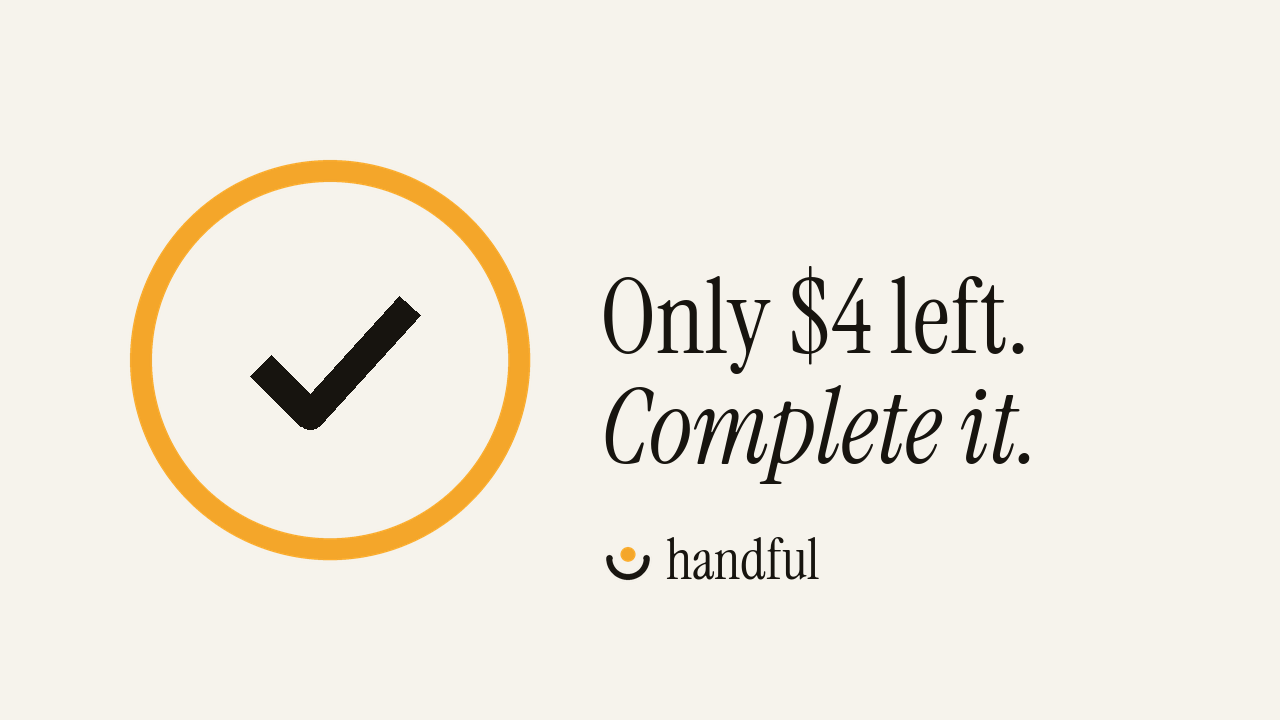
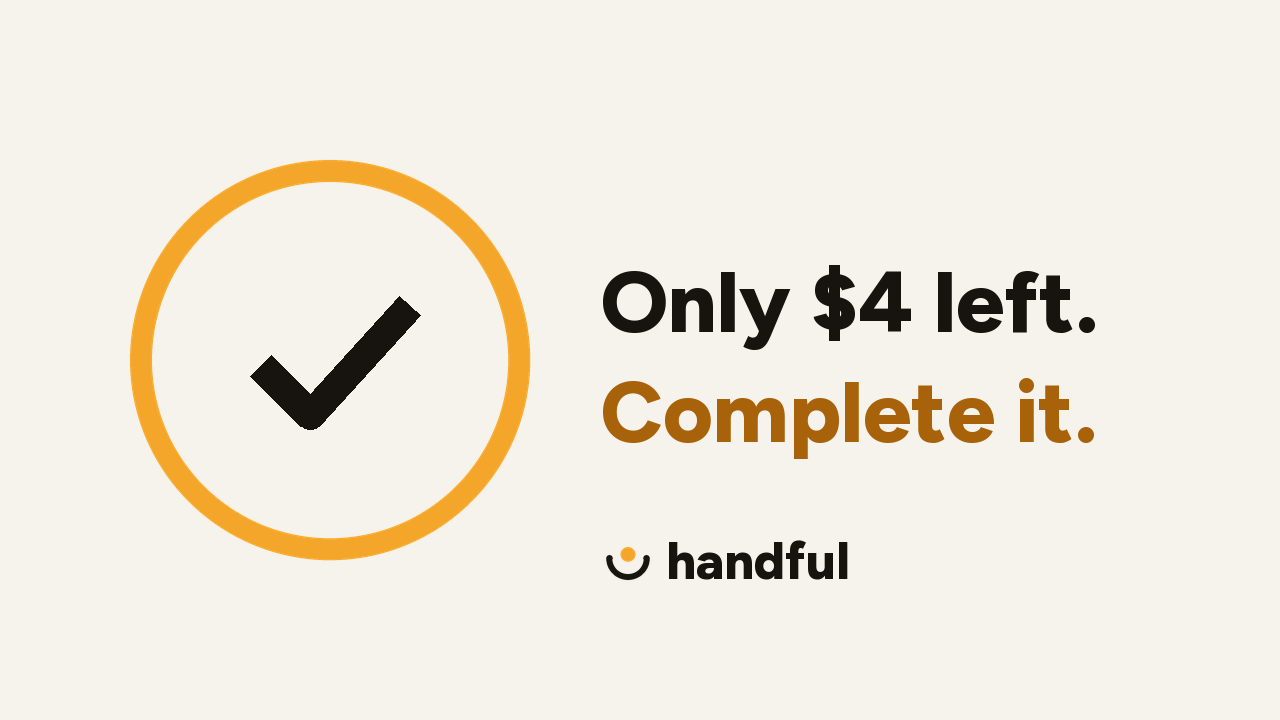
Video cards and thumbnail in Figtree with sun accent lines

Changed region(s): [[0.4688, 0.3667, 0.875, 0.5194], [0.4688, 0.5194, 0.875, 0.6722], [0.5, 0.7333, 0.6875, 0.825]]

diff --git a/scripts/video/cards.py b/scripts/video/cards.py
@@ -1,21 +1,20 @@
 """Title cards, caption panels and frame assets for the demo video (1920x1080).
 
-Uses the app's own fonts: Instrument Serif (bundled via @expo-google-fonts) and
-SF Pro from macOS for small labels.
+Uses the app's own type: Figtree (bundled via @expo-google-fonts). Headlines are ExtraBold;
+the accent line of a headline is set in the deep sun color, as in the app.
 """
 from pathlib import Path
 
 from PIL import Image, ImageDraw, ImageFilter, ImageFont
 
 ROOT = Path(__file__).resolve().parents[2]
-FONT_DIR = ROOT / "node_modules/@expo-google-fonts/instrument-serif"
-SERIF = str(FONT_DIR / "400Regular/InstrumentSerif_400Regular.ttf")
-SERIF_ITALIC = str(FONT_DIR / "400Regular_Italic/InstrumentSerif_400Regular_Italic.ttf")
-SANS_CANDIDATES = [
-    "/System/Library/Fonts/SFNS.ttf",
-    "/System/Library/Fonts/Helvetica.ttc",
-]
-SANS = next((p for p in SANS_CANDIDATES if Path(p).exists()), None)
+FONT_DIR = ROOT / "node_modules/@expo-google-fonts/figtree"
+HEAVY = str(FONT_DIR / "800ExtraBold/Figtree_800ExtraBold.ttf")
+SANS = str(FONT_DIR / "500Medium/Figtree_500Medium.ttf")
+SANS_BOLD = str(FONT_DIR / "700Bold/Figtree_700Bold.ttf")
+# Kept for callers: a "serif" headline is now the heavy weight, "italic" means the accent color.
+SERIF = HEAVY
+SERIF_ITALIC = HEAVY
 
 W, H = 1920, 1080
 PAPER = (246, 243, 236)
@@ -30,8 +29,8 @@ def font(path, size):
     return ImageFont.truetype(path, size)
 
 
-def sans(size):
-    return ImageFont.truetype(SANS, size) if SANS else ImageFont.load_default()
+def sans(size, bold=False):
+    return ImageFont.truetype(SANS_BOLD if bold else SANS, size)
 
 
 def draw_mark(img, cx, cy, size, cup=INK, sun=SUN):
@@ -62,16 +61,16 @@ def title_card(path, lines, mark=False, footer=None):
     """Centered serif lines on paper. lines: [(text, italic, color?)]"""
     img = Image.new("RGBA", (W, H), PAPER + (255,))
     d = ImageDraw.Draw(img)
-    size = 108
-    fonts = [font(SERIF_ITALIC if it else SERIF, size) for _, it, *_ in lines]
-    total = len(lines) * int(size * 1.08)
+    size = 92
+    fonts = [font(HEAVY, size) for _ in lines]
+    total = len(lines) * int(size * 1.18)
     y = H / 2 - total / 2 + (40 if mark else 0)
     if mark:
         draw_mark(img, W / 2, y - 110, 120)
     for (text, it, *rest), f in zip(lines, fonts):
-        col = rest[0] if rest else INK
+        col = rest[0] if rest else (SUN_DEEP if it else INK)
         d.text((W / 2, y), text, font=f, fill=col, anchor="ma")
-        y += int(size * 1.08)
+        y += int(size * 1.18)
     if footer:
         d.text((W / 2, H - 90), footer, font=sans(26), fill=INK3, anchor="ma")
     img.convert("RGB").save(path)
@@ -80,10 +79,10 @@ def title_card(path, lines, mark=False, footer=None):
 def end_card(path):
     img = Image.new("RGBA", (W, H), PAPER + (255,))
     d = ImageDraw.Draw(img)
-    draw_mark(img, W / 2 - 205, 400, 132)
-    d.text((W / 2 - 125, 400), "handful", font=font(SERIF, 150), fill=INK, anchor="lm")
-    d.text((W / 2, 560), "Small gifts. Real needs.", font=font(SERIF, 64), fill=INK, anchor="ma")
-    d.text((W / 2, 636), "Proof that protects.", font=font(SERIF_ITALIC, 64), fill=INK, anchor="ma")
+    draw_mark(img, W / 2 - 215, 400, 132)
+    d.text((W / 2 - 135, 400), "handful", font=font(HEAVY, 140), fill=INK, anchor="lm")
+    d.text((W / 2, 560), "Small gifts. Real needs.", font=font(HEAVY, 60), fill=INK, anchor="ma")
+    d.text((W / 2, 636), "Proof that protects.", font=font(HEAVY, 60), fill=SUN_DEEP, anchor="ma")
     d.text((W / 2, 830), "Built with Expo + RevenueCat  ·  Shipaton 2026 · Next Gen", font=sans(28), fill=INK3, anchor="ma")
     d.text((W / 2, 874), "Demo data · fictional nonprofits · RevenueCat Test Store (no real money)", font=sans(24), fill=INK3, anchor="ma")
     img.convert("RGB").save(path)
@@ -93,7 +92,7 @@ def caption_panel(path, label, headline, sub=None, width=820):
     """Transparent panel placed right of the phone: small label, serif headline, optional sub."""
     img = Image.new("RGBA", (width, H), (0, 0, 0, 0))
     d = ImageDraw.Draw(img)
-    hf = font(SERIF, 84)
+    hf = font(HEAVY, 72)
     # wrap headline
     words, rows, cur = headline.split(), [], ""
     for w in words:
@@ -104,13 +103,13 @@ def caption_panel(path, label, headline, sub=None, width=820):
         else:
             cur = test
     rows.append(cur)
-    block_h = 50 + len(rows) * 92 + (80 if sub else 0)
+    block_h = 50 + len(rows) * 86 + (80 if sub else 0)
     y = H / 2 - block_h / 2
-    d.text((0, y), label.upper(), font=sans(24), fill=SUN_DEEP)
+    d.text((0, y), label.upper(), font=sans(24, bold=True), fill=SUN_DEEP)
     y += 50
     for r in rows:
         d.text((0, y), r, font=hf, fill=INK)
-        y += 92
+        y += 86
     if sub:
         y += 34
         sf = sans(30)
@@ -145,10 +144,10 @@ def thumbnail(path, ring_png=None):
     img.alpha_composite(ring, (cx - r - 10, cy - r - 10))
     # check
     d.line([(cx - 70, cy + 5), (cx - 20, cy + 55), (cx + 80, cy - 55)], fill=INK, width=30, joint="curve")
-    d.text((600, 250), "Only $4 left.", font=font(SERIF, 104), fill=INK)
-    d.text((600, 360), "Complete it.", font=font(SERIF_ITALIC, 104), fill=INK)
+    d.text((600, 250), "Only $4 left.", font=font(HEAVY, 86), fill=INK)
+    d.text((600, 360), "Complete it.", font=font(HEAVY, 86), fill=SUN_DEEP)
     draw_mark(img, 628, 560, 56)
-    d.text((666, 560), "handful", font=font(SERIF, 56), fill=INK, anchor="lm")
+    d.text((666, 560), "handful", font=font(HEAVY, 52), fill=INK, anchor="lm")
     img.convert("RGB").save(path)
 
 
